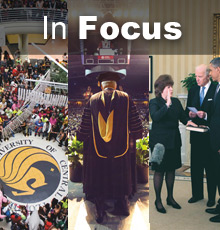
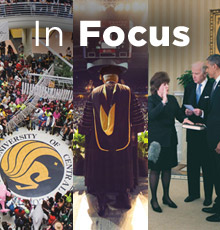
story thumbnail tweaks; updated title font on In Focus

diff --git a/dev/2013/summer/in-focus/in-focus.css b/dev/2013/summer/in-focus/in-focus.css
@@ -1,3 +1,6 @@
+/* Fonts */
+@import url(http://fonts.googleapis.com/css?family=Montserrat:400,700);
+
 /* Animations (borrowed from http://daneden.me/animate/) */
 .animated{-webkit-animation-fill-mode:both;-moz-animation-fill-mode:both;-ms-animation-fill-mode:both;-o-animation-fill-mode:both;animation-fill-mode:both;-webkit-animation-duration:0.5s;-moz-animation-duration:0.5s;-ms-animation-duration:0.5s;-o-animation-duration:0.5s;animation-duration:0.5s;}
 .animated.slow{-webkit-animation-duration:2s;-moz-animation-duration:2s;-ms-animation-duration:2s;-o-animation-duration:2s;animation-duration:2s;}
@@ -138,7 +141,7 @@
 }
 #story-title { 
 	color: #fff; 
-	font-family: 'Arial Black', sans-serif;
+	font-family: 'Montserrat', sans-serif;
 	font-size: 60px;
 	text-align: center;
 	width: 100%;
@@ -150,7 +153,7 @@
 	text-shadow: 0px 5px 5px rgba(0,0,0,0.4);
 	z-index: 999;
 }
-#story-title .alt { font-family: Arial, sans-serif; font-weight: 300; }
+#story-title .alt { font-family: Helvetica, sans-serif; font-weight: 200; }
 #video-wrap { 
 	position: relative;
 	top: -50px;
